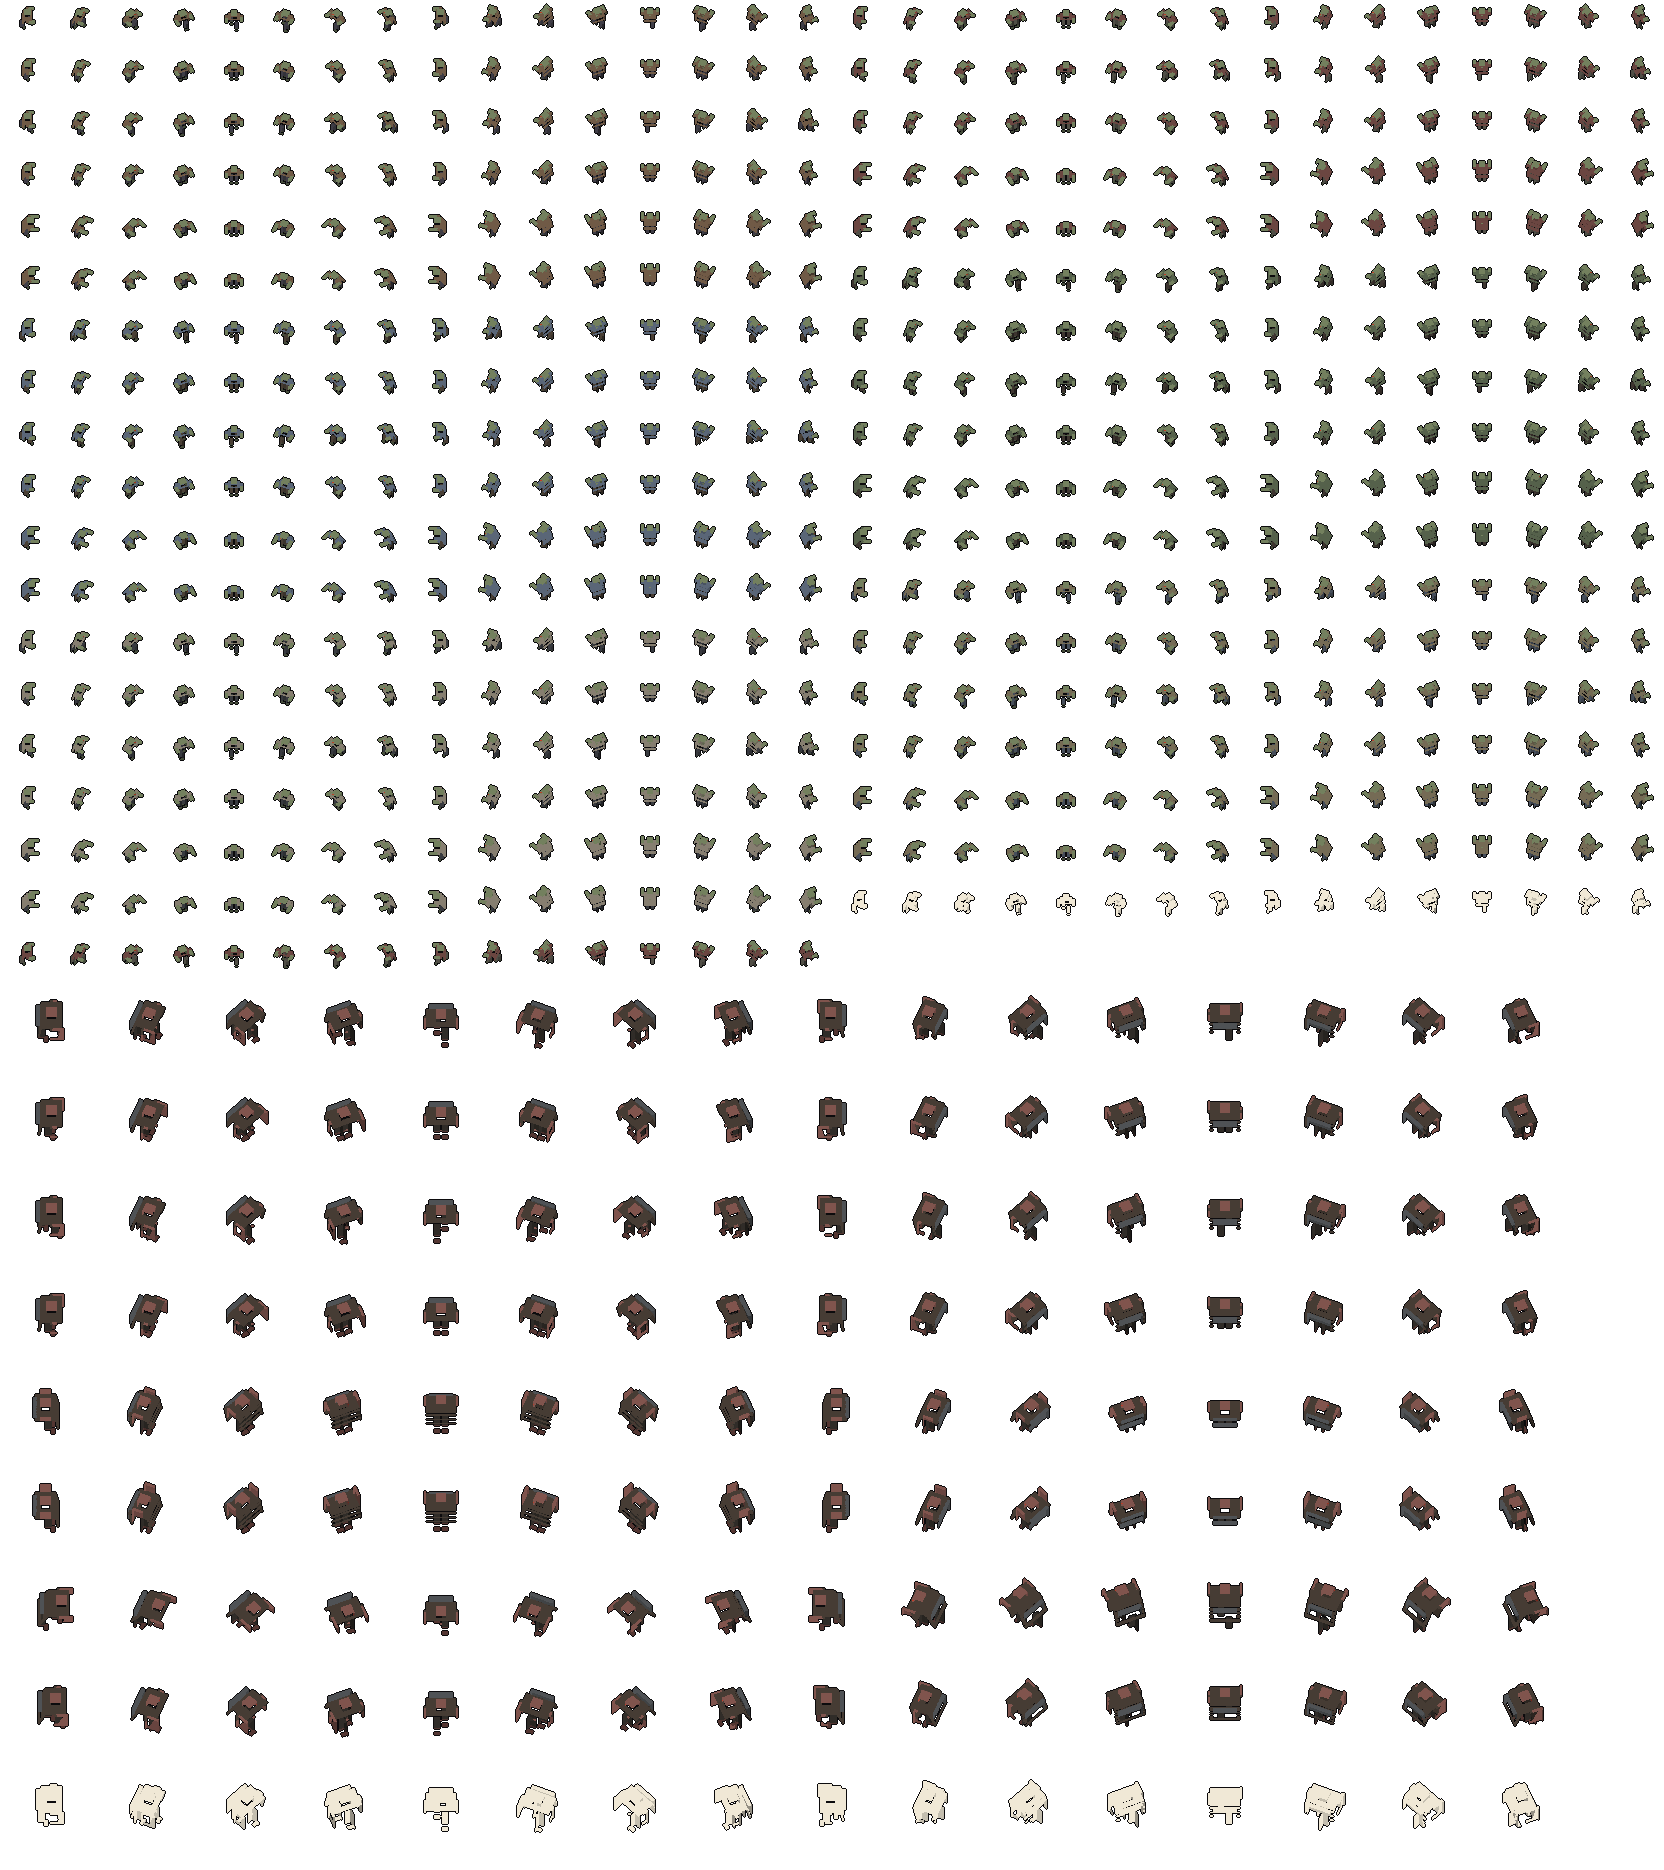
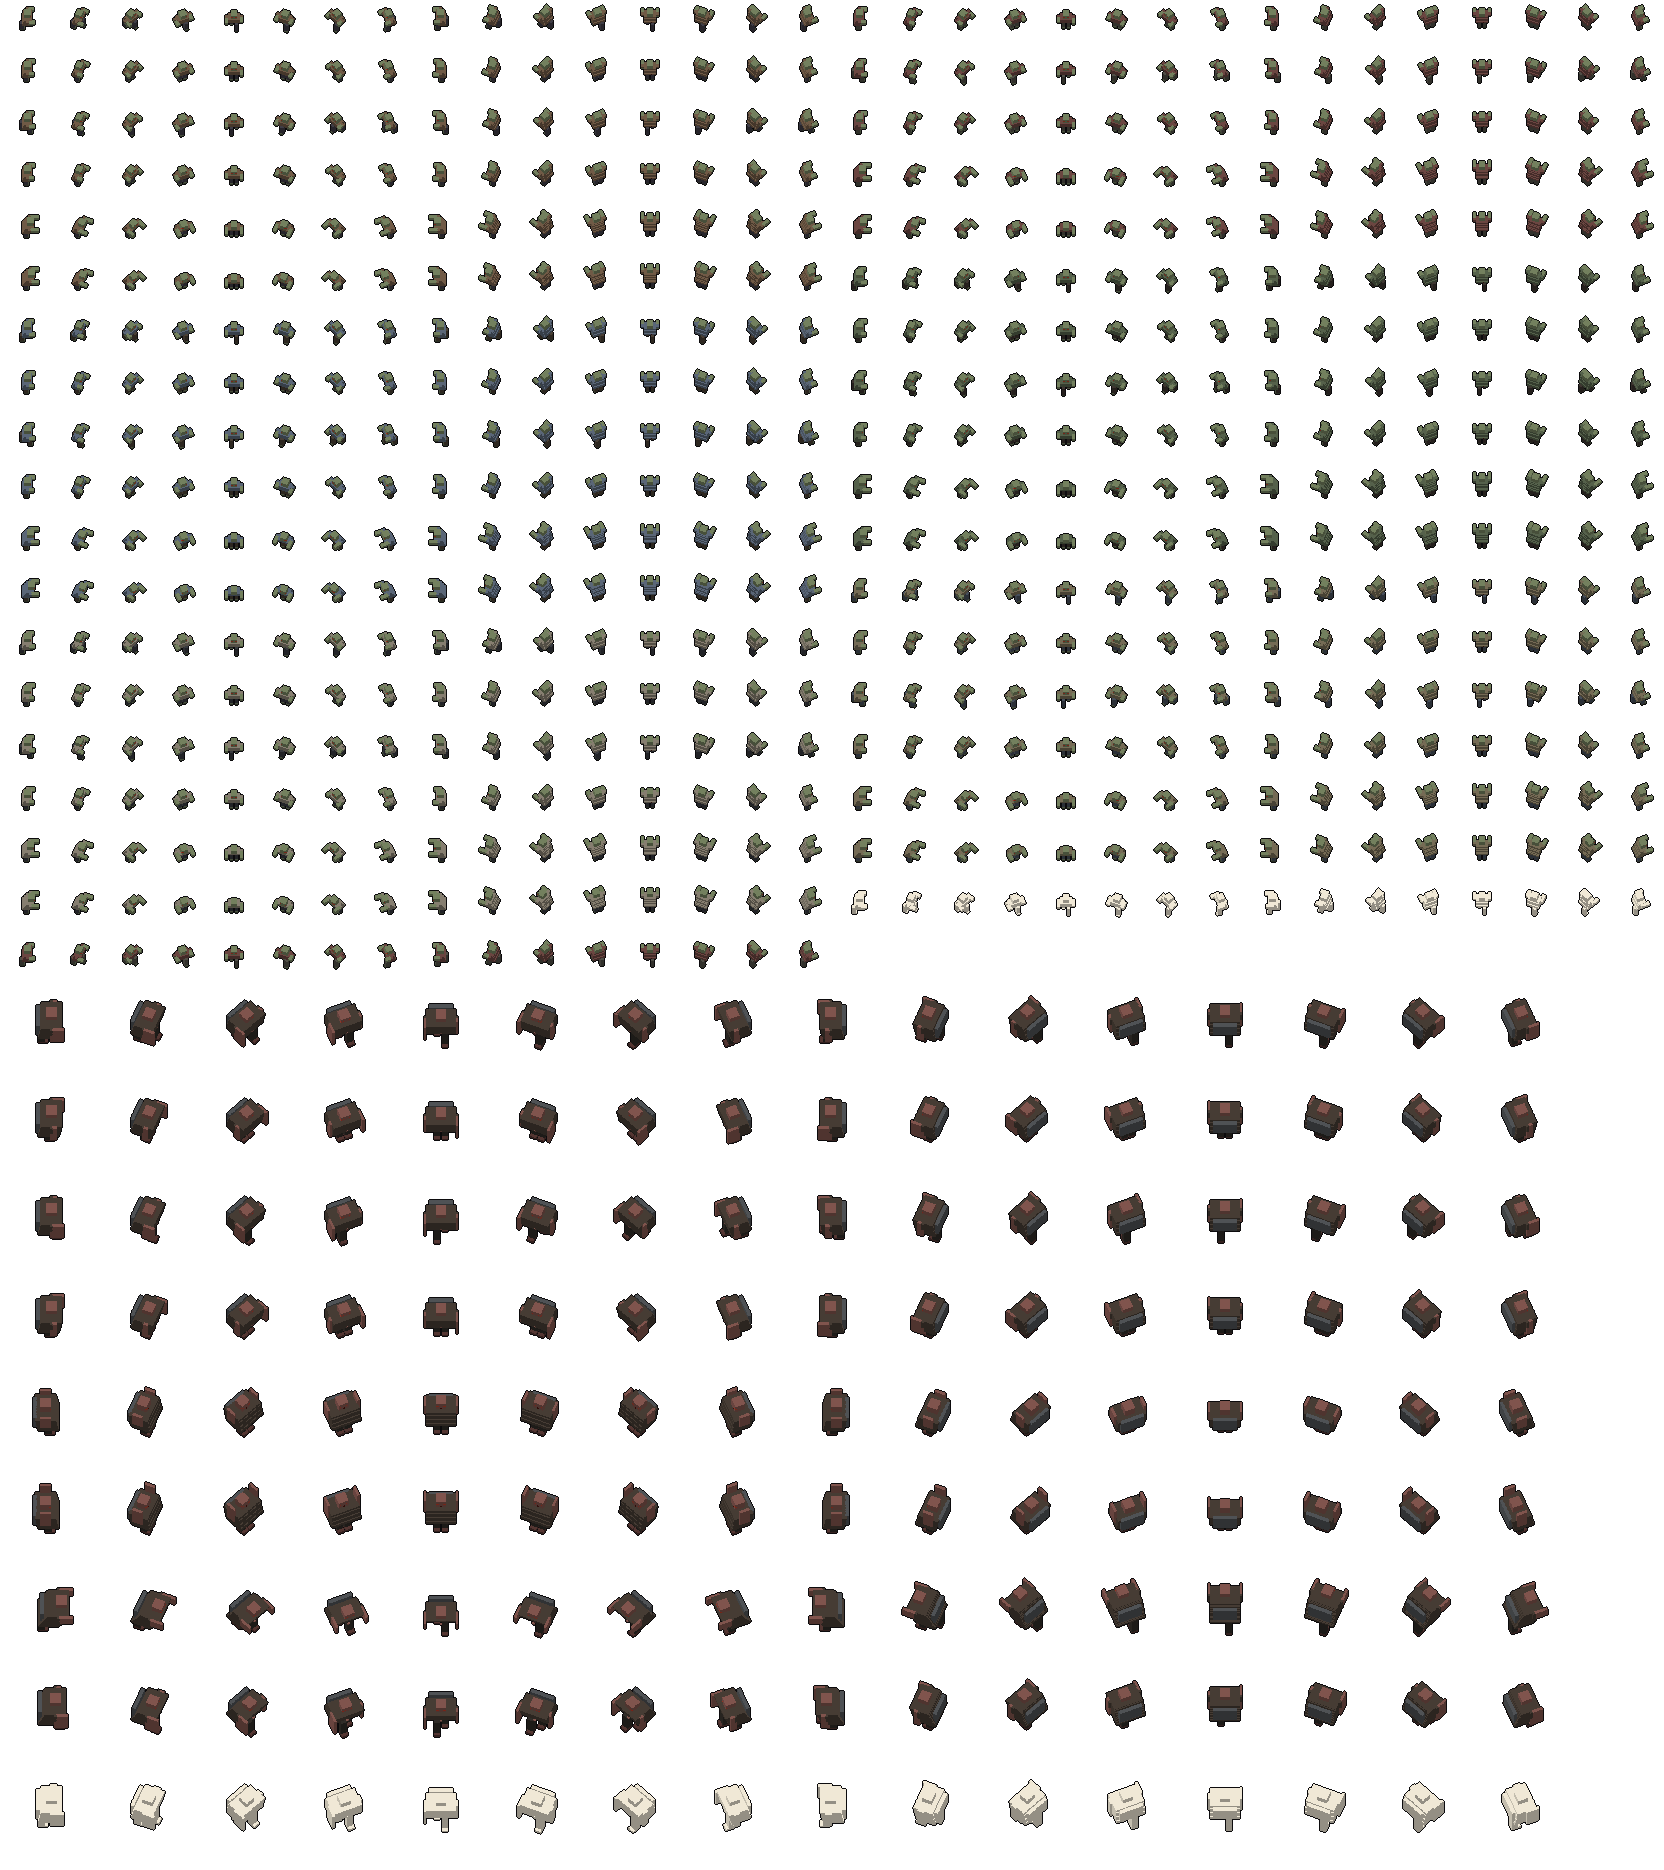
Prototype: zombies rendered at the rigs' 30° tilt (local renderer copy with the south-face fix), before/after previews, angled view study

diff --git a/tools/art/zombies.py b/tools/art/zombies.py
@@ -19,7 +19,23 @@ from PIL import Image
 
 HERE = os.path.dirname(os.path.abspath(__file__))
 sys.path.insert(0, HERE)
-from voxel_render import render_frame, canvas_for, write_import  # noqa: E402
+import inspect  # noqa: E402
+import voxel_render  # noqa: E402
+from voxel_render import canvas_for, write_import  # noqa: E402
+
+# Tilt prototype (art/zombie-tilt-proto): the shared voxel_render.render_frame
+# culls side faces with view = (0, -sin t, cos t), so it draws the up-screen
+# (north) sides and drops the south sides, which the projection and depth order
+# say face the camera. On a zombie that hides the front/side/height and the
+# figure reads flat next to the rigs. Same fix as the garage sample
+# (art/sample-garage, garage_scenes.py): a local copy with the sign fixed. The
+# shared renderer is untouched (fixing it re-renders every rig sheet).
+_src = inspect.getsource(voxel_render.render_frame).replace(
+    "view = np.array([0.0, -st, ct])", "view = np.array([0.0, st, ct])")
+assert "[0.0, st, ct]" in _src
+_ns = dict(vars(voxel_render))
+exec(_src, _ns)
+render_frame = _ns["render_frame"]
 
 OUT = os.path.join(HERE, "..", "..", "art", "zombies")
 HEADINGS = 16

diff --git a/docs/ANGLED_VIEW_STUDY.md b/docs/ANGLED_VIEW_STUDY.md
@@ -1,0 +1,95 @@
+# Angled view study (30° tilt for the whole fight)
+
+Prototype branch `art/zombie-tilt-proto`, awaiting Cameron's review. Based on reading
+`scripts/mission.gd` (scene setup), `scripts/arena.gd`, `scripts/chase_camera.gd`,
+`scripts/directional_sprite.gd`, `scripts/zombie.gd`, `scripts/hud.gd` and `tools/art/voxel_render.py`.
+
+## What the prototype changes
+
+- Zombie sheets (Shambler, Tank) now render through a local copy of `render_frame` with
+  the face-culling sign fixed (`view = (0, +sin t, cos t)`), as in the garage sample.
+  The shared renderer draws the north (far) sides and drops the south (near) sides, so
+  zombies showed their backs/insides and read flat. With the fix they show a front,
+  side and height at the rigs' 30°. Same 16 headings picked from `rotation` (which
+  already follows movement), 1.8x scale, six clothing palettes. Atlas stays 1664x1870.
+- Nothing else: `zombie.gd`, collision, hit circles, speed and AI are untouched.
+- Before/after: `art/previews/zombie_tilt_before.png`, `zombie_tilt_after.png`
+  (same `capture_zombies_sample.gd` scene: player rig, 10 Shamblers, 3 Tanks).
+
+Note: the rigs themselves have the same culling bug in the shared renderer. Fixing
+`voxel_render.py` and re-rendering all 572 rig sheets is the single biggest "reads as
+angled" win and is art-only, but it re-renders every vehicle, so it needs its own PR.
+
+## How the fight is built today
+
+- `mission.gd` adds nodes in tree order: arena (z -10), splats (z -5), hazards,
+  markers (z 1), mines, barrels, pickups, zombies, player rig, enemy rigs, hunters,
+  bullets/shells (z 4), fx (z 5), reticle/keywords (z 6), camera, HUD. There is no
+  y-sorting anywhere; draw order is tree order plus fixed `z_index`.
+- `arena.gd` draws the whole map in one `_draw` pass: flat concrete, roads, cracks,
+  then buildings as flat rects (wall colour, inset roof, clutter) with a fixed
+  +16,+16 drop shadow for fake height, props as rotated rects. Collision is
+  axis-aligned boxes from `layouts.gd`.
+- `chase_camera.gd` is a rotation-locked Camera2D (`ignore_rotation`), look-ahead and
+  speed zoom. No projection: world = screen up to zoom.
+- Rigs use `DirectionalSprite` (32 headings, never rotated); zombies use the P0 atlas.
+- Aim: touch stick gives a direction; mouse uses `get_global_mouse_position()`;
+  edge arrows use `get_canvas_transform()`. There is no minimap today.
+
+## What "angled" needs, item by item
+
+| Item | Work | Kind |
+|---|---|---|
+| Rig sheets | fix shared renderer sign, re-render all sheets, re-check turret/mount points | art-only |
+| Zombies | this prototype; extend to Brute, Boomer, Slimer | art-only (P3) |
+| Map ground tiles | V5.1 baked texture; ground is flat so no tilt change needed beyond foreshortened details | art-only (P4) |
+| Buildings | V5.2 voxel blocks at 30°: roof drawn shifted up by `h*sin30`, south wall visible below it; footprint stays the collision rect | art (P4), plus draw-order work below |
+| Props / cover | voxel sprites, same collision boxes (V5.3); props are rotated so they need heading sheets or 8-16 baked rotations | art-only (P4) |
+| Shadows | replace +16,+16 offsets with shadows cast "north-west" consistent with LIGHT; per-sprite blob shadow under rigs/zombies | art-only |
+| FX | muzzle flashes, explosions, smoke should rise (offset up-screen by height); splats/decals stay flat | mostly art (P2); projectile visual height offset is a small draw change |
+| UI markers | reticle, lock, status rings, HP bars: anchor at ground point vs. sprite top; edge arrows unchanged | small code (P7/P1 `hud.gd`, `lock_reticle.gd`) |
+| Drawing order | tall things must y-sort: put buildings/props/rigs/zombies/hunters under one `y_sort_enabled` Node2D, origin at the ground point (already true for sheets). Arena must split into a flat ground layer and per-building sprite nodes | engine/scene change (`mission.gd`, `arena.gd`) |
+| Occlusion | building roofs drawn above rigs south of... i.e. rigs north of a tall building get hidden by its wall/roof. Options: fade the building to ~35% alpha when the player (or a lock target) is inside its "shadow" rect (cheap, a per-building rect test per frame); or a cutaway roof sprite. Recommend fade + a silhouette outline of the rig | engine/scene change |
+| Collision / hitboxes | can stay top-down: all physics is on the ground plane and sprites are anchored at the footprint centre. Only visual mismatch: bullets hitting a tall sprite's upper part pass "through"; acceptable, or raise bullet visuals by a fixed height | no gameplay change needed |
+| Camera | keep rotation-locked 2D camera (the art carries the tilt). Optionally lead the camera ~10% more up-screen since tall south walls hide what's north; zoom unchanged | small code |
+| Aim / input | world is still ground plane, so stick directions are correct. Mouse aim: cursor points at a sprite's body, which sits ~h*sin30 above its ground point; add a pick offset (aim at ground point under the cursor + raise ~10 px) or auto-snap to nearest target | small code (`mission._kbm_input`) |
+| Minimap | none exists; if added (UI), draw it top-down from layout data, unaffected | n/a |
+
+## Performance / atlas size (mobile, GLES3 compat)
+
+- Zombie atlas unchanged (1664x1870, under the 2048 limit). 32 headings would not fit
+  one 2048 atlas with 6 variants; keep 16 or split per kind.
+- Buildings as modular pieces (roof, wall segments, corners) ~1-2 atlases of 1024-2048.
+  Baking each building into one sprite at job start keeps draw calls low; ~20-40
+  building sprites + props per map is fine on 2020 phones.
+- Y-sorting a few hundred zombies: Godot y_sort is a per-frame sort of canvas items;
+  zombies already draw individually, so cost is minor. Building fade is per-building
+  alpha, no shaders needed.
+
+## Art-only vs beyond art
+
+- **Art-only:** renderer culling fix + rig re-render, zombie sheets (all kinds), tiles,
+  building/prop/cover voxel sprites, shadows, FX sheets.
+- **Beyond art (engine/scene code, no gameplay numbers):** splitting `arena.gd` into
+  ground + y-sorted building/prop nodes, y-sort container in `mission.gd`, occlusion fade,
+  marker anchoring, mouse-aim pick offset, optional camera lead.
+- **Gameplay:** none required; collision, hit circles, speeds and AI stay top-down.
+
+## Packages affected
+
+- **P4 Map looks:** buildings, props, cover, shadows, arena split (largest share).
+- **P5 Map layouts:** layout data unchanged, but very tall buildings near south edges of
+  routes need checking for occlusion of choke points; add a building `height` field.
+- **UI P0:** atlas loader for building/prop atlases; shared renderer fix.
+- **UI P1:** rarity beams/pickup markers anchored above sprites.
+- **UI P7:** HUD markers, reticle, status rings offset; fade/silhouette look.
+- Also P2 (FX height) and P3 (remaining zombie kinds).
+
+## Rough effort
+
+- Renderer fix + rig re-render + checks: 0.5-1 day.
+- Remaining zombie kinds: 1 day.
+- Buildings/props/cover voxel art (modular): 3-5 days.
+- Arena split, y-sort, occlusion fade, marker anchoring, aim offset: 2-3 days + tests.
+- FX/shadow pass: 1-2 days.
+- Total: about 2 working weeks for one agent, or about 1 week split across P3/P4/P7.
